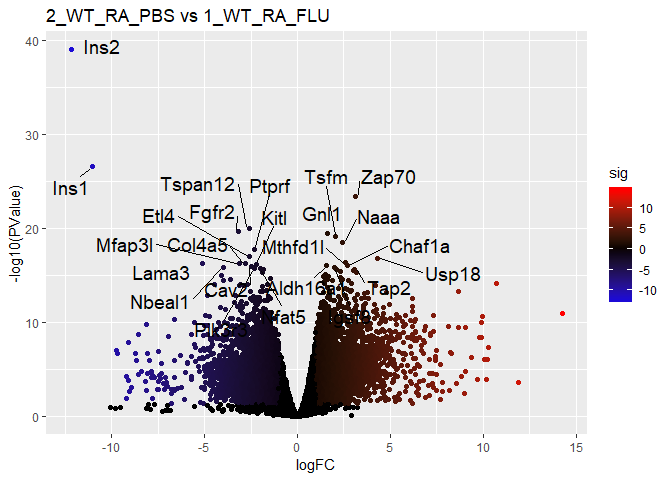
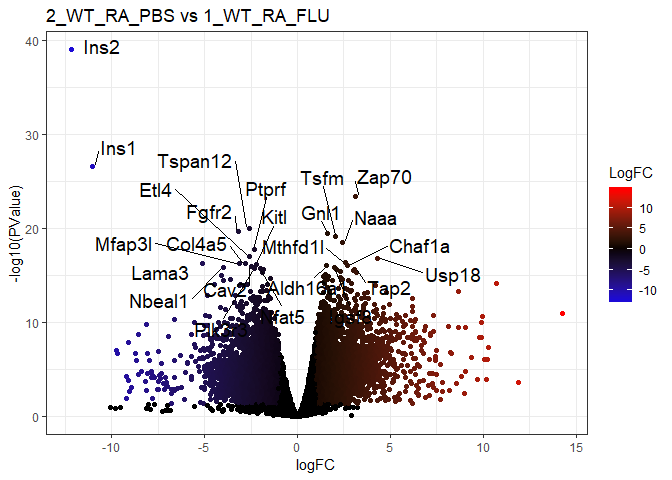
with() replacing attach(), detach().

diff --git a/README.md b/README.md
@@ -157,13 +157,13 @@ for (r in 1:nrow(pairs)) {
    tt=topTags(exactTest(y1, pairs[r,]),n=9999999,sort.by="none") # select all with original order
    # write.csv(tt,paste0("Pair_",title,".csv")) # save to local file
    
-   tt$table$sig=ifelse(ifSig(tt$table$logFC,tt$table$PValue),tt$table$logFC,0)
+   tt$table$LogFC=with(tt$table,ifelse(ifSig(logFC,PValue),logFC,0))
    p = ggplot(tt$table,aes(logFC,-log10(PValue)))+
-      geom_point(aes(col=sig))+
+      geom_point(aes(col=LogFC))+
       scale_colour_gradient2(low="blue",mid="black",high="red")+
-      labs(title=title)
+      labs(title=title)+theme_bw()
    # p
-   tt_filter=subset(tt$table, tt$table$sig != 0)
+   tt_filter=subset(tt$table, tt$table$LogFC != 0)
    tt_filter_sort_top=tt_filter[order(tt_filter$FDR), ][1:24,]
    print(
       p+geom_text_repel(
